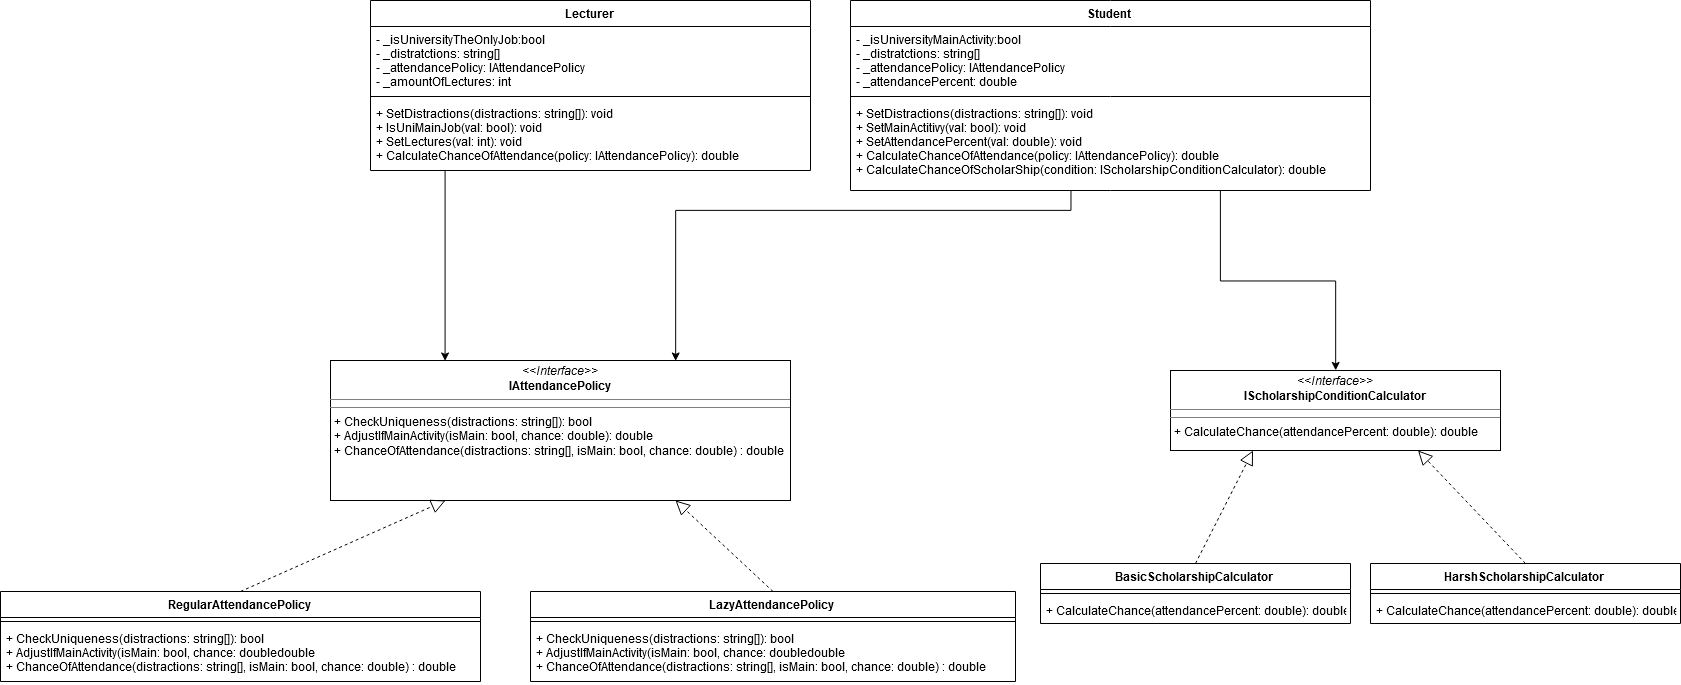
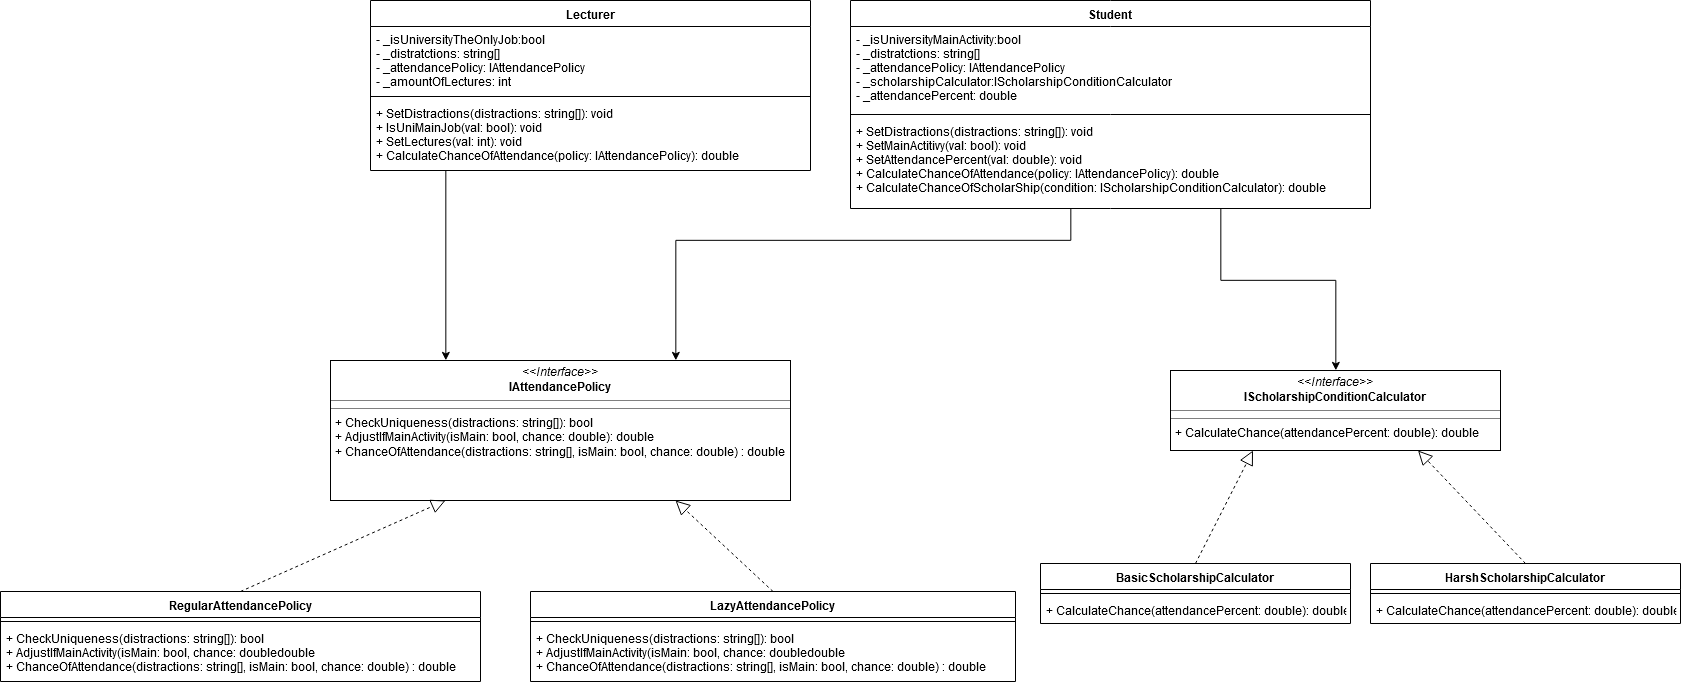
changes

diff --git a/PSP1/Student.cs b/PSP1/Student.cs
@@ -8,6 +8,7 @@ namespace PSP1Strategy
         private bool _isUniversityMainActivity;
         private string[] _distratctions;
         private IAttendancePolicy _attendancePolicy;
+        private IScholarshipConditionCalculator _scholarshipCalculator;
         private double _attendancePercent;
 
         public void SetDistractions(string[] distractions)
@@ -37,7 +38,8 @@ namespace PSP1Strategy
 
         public double CalculateChanceOfScholarship(IScholarshipConditionCalculator condition)
         {
-            return condition.CalculateChance(_attendancePercent);
+            _scholarshipCalculator = condition;
+            return _scholarshipCalculator.CalculateChance(_attendancePercent);
         }
     }
 }
